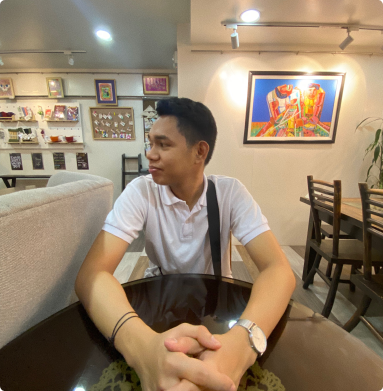
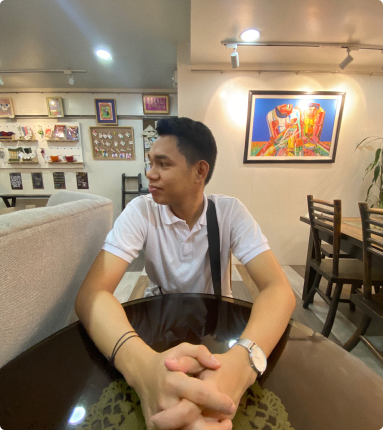
Changed about picture

diff --git a/src/pages/AboutPage.jsx b/src/pages/AboutPage.jsx
@@ -43,7 +43,7 @@ export const AboutPage = () => {
                   </div>
                 </div>
                 <div className="lg:pr-[100px] sm:pr-[50px] flex items-center justify-center">
-                  <img src="/images/AboutImg2.png" className="max-w-full h-full" alt="" />
+                  <img src="/images/AboutImg.png" className="max-w-full h-full" alt="" />
                 </div>
               </div>
 
